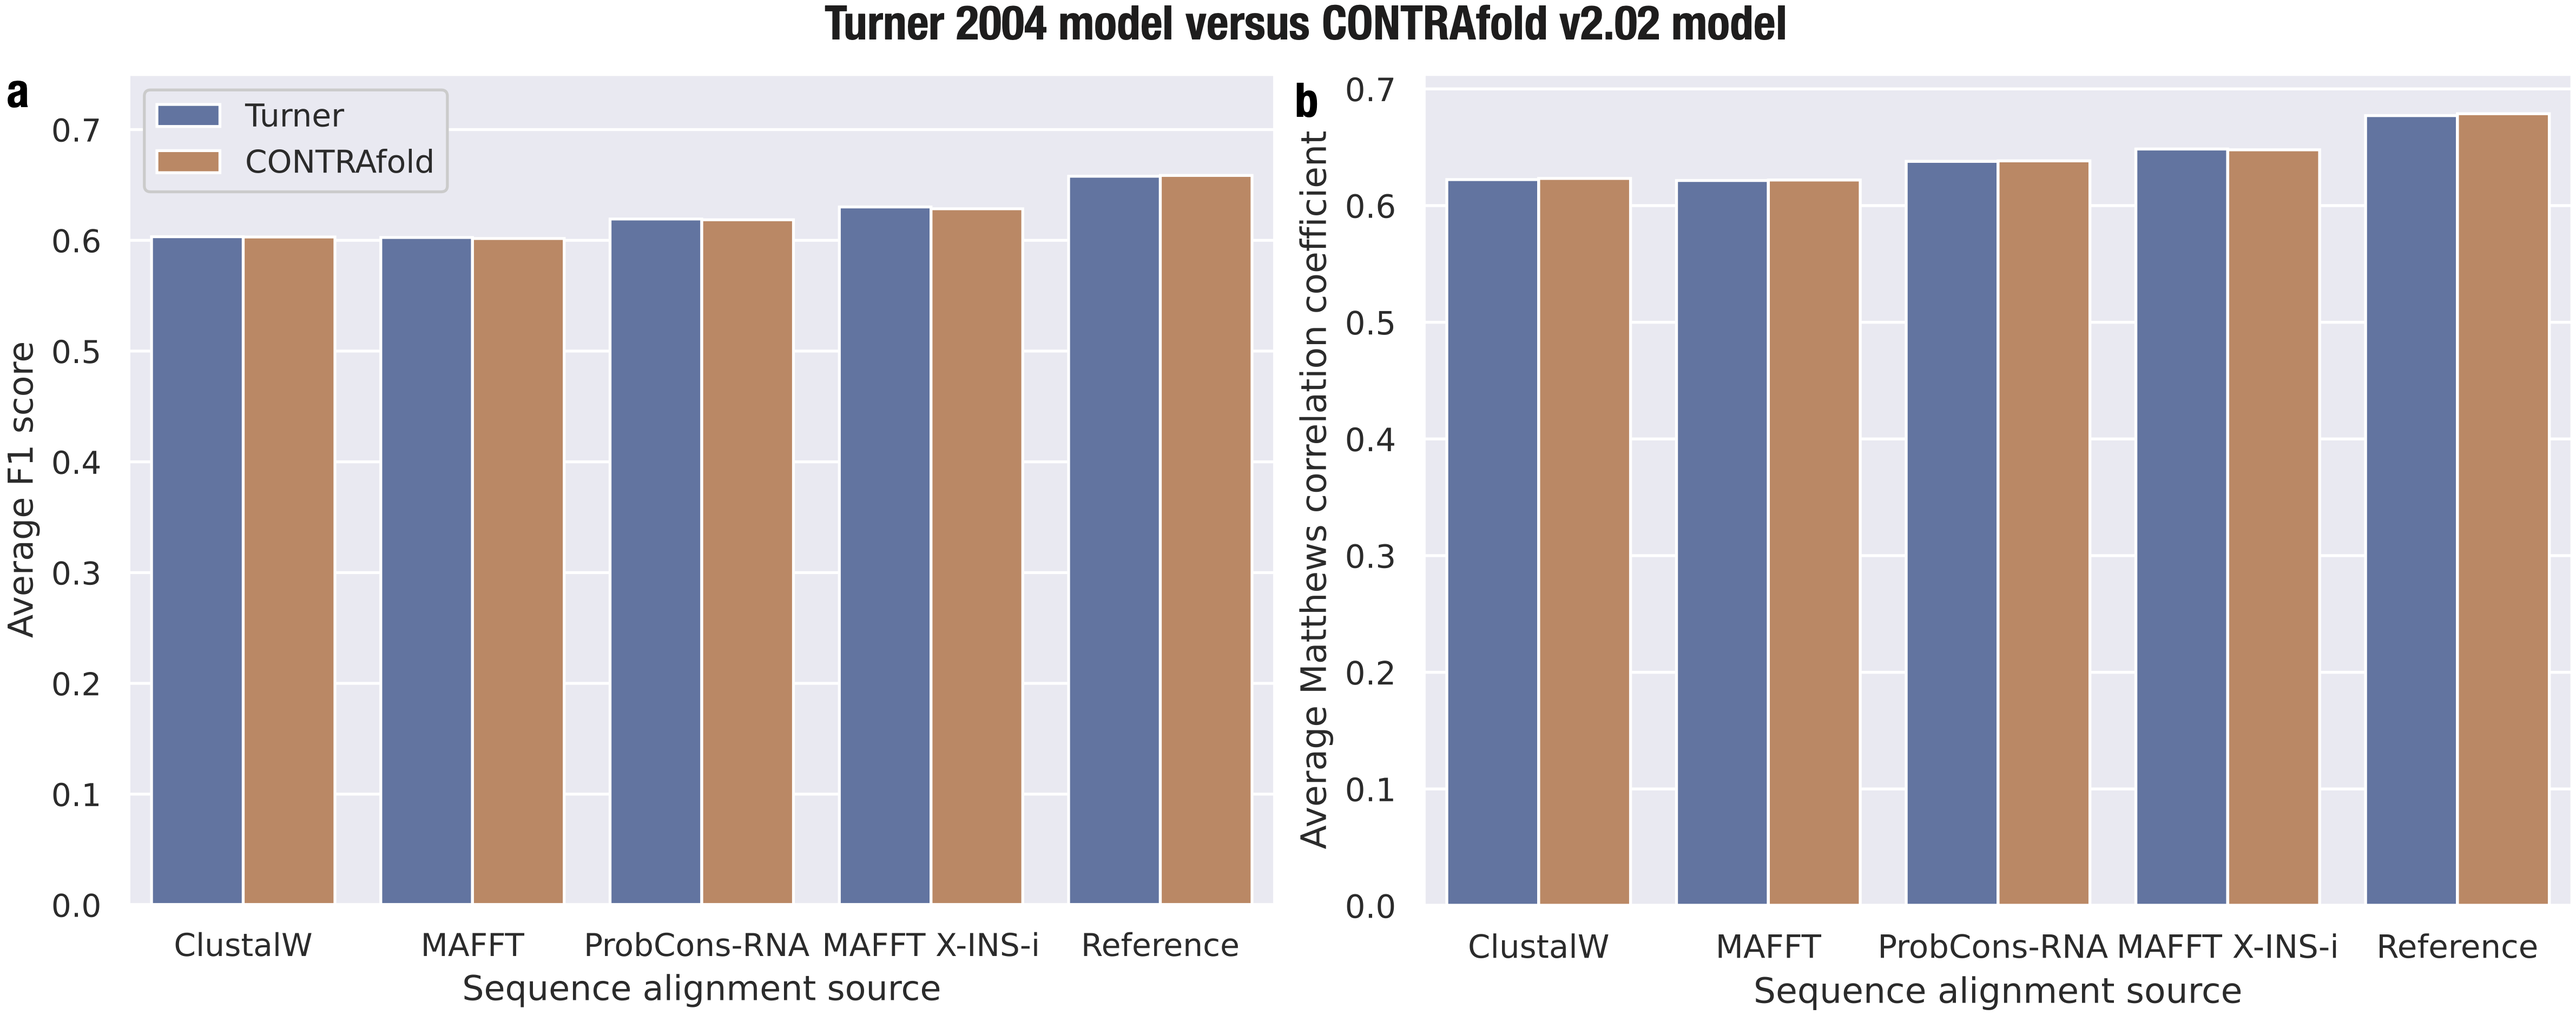
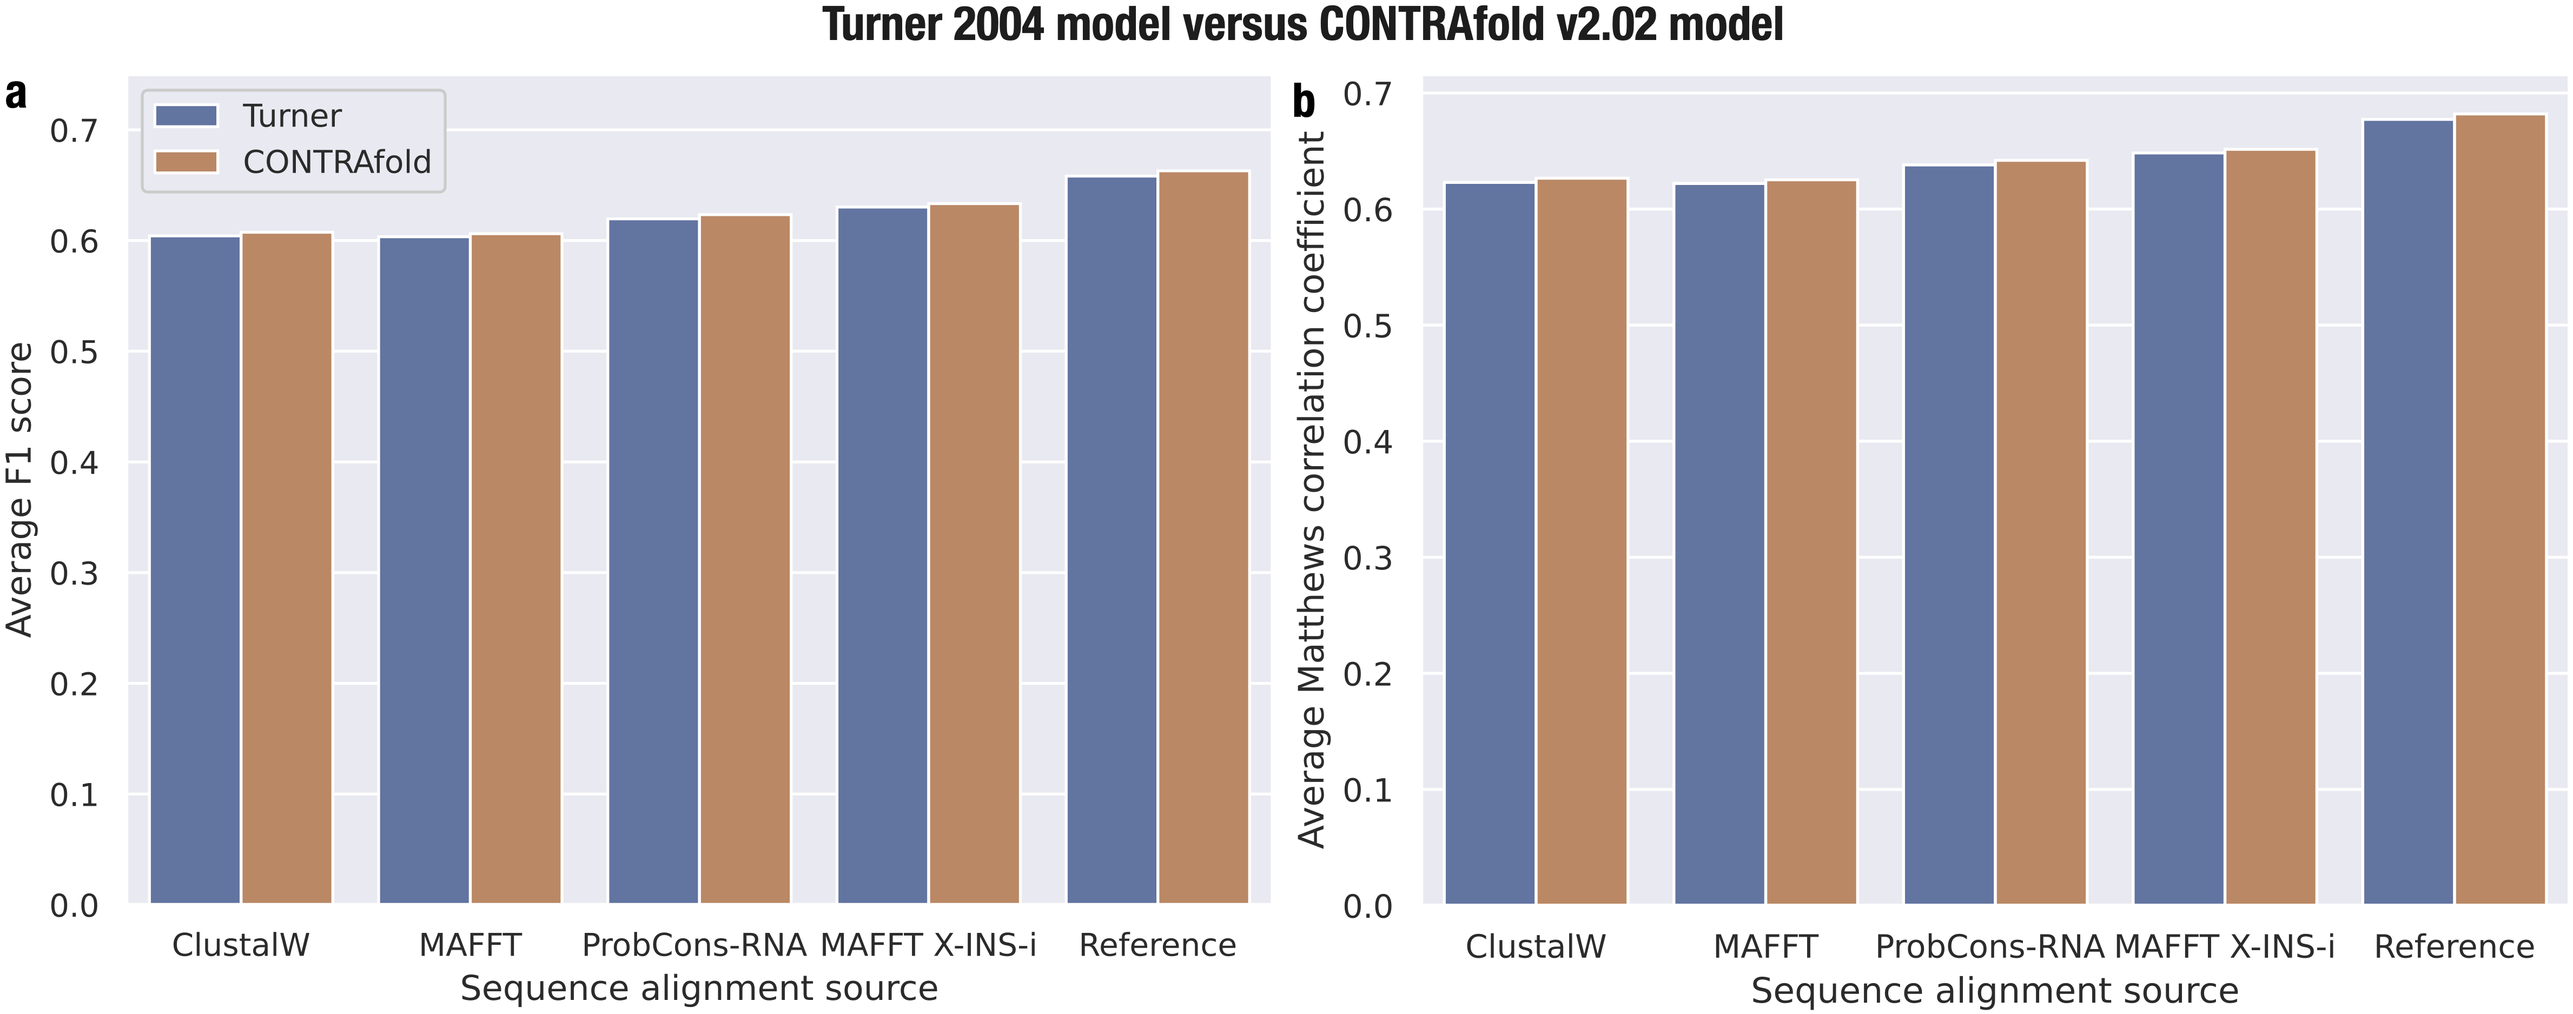
Fix figures

diff --git a/README.md b/README.md
@@ -27,10 +27,14 @@ $ cargo test --release -- --nocapture
 While ConsProb's paper describes only [the Turner 2004 model](https://rna.urmc.rochester.edu/NNDB/) as an available scoring model of RNA structural alignment, ConsProb also offers [the CONTRAfold v2.02 model](http://contra.stanford.edu/contrafold/).
 These two scoring models are described [here](https://github.com/heartsh/rna-ss-params).
 One of the CONTRAfold v2.02 model's advantages over the Turner 2004 model is considering noncanonical nucleotide base-pairings.
-My prediction accuracy benchmarking of [ConsAlifold](https://github.com/heartsh/consalifold) adopting ConsProb did not show the significant difference between the CONTRAfold v2.02 model and the Turner 2004 model:
+My prediction accuracy benchmarking of [ConsAlifold](https://github.com/heartsh/consalifold) adopting ConsProb showed the marginal difference between the CONTRAfold v2.02 model and the Turner 2004 model:
 
 |![Structure prediction accuracy comparison](./assets/images_fixed/fig_1.png)
 |:-:|
+
+| F1 score-based p-value | MCC-based p-value |
+| --: | --: |
+| 0.036 | 0.0046 |
 
 In my running time benchmarking of ConsAlifold adopting ConsProb, the CONTRAfold v2.02 model was significantly slower than the Turner 2004 model due to the larger spaces of possible RNA structural alignments:
 
